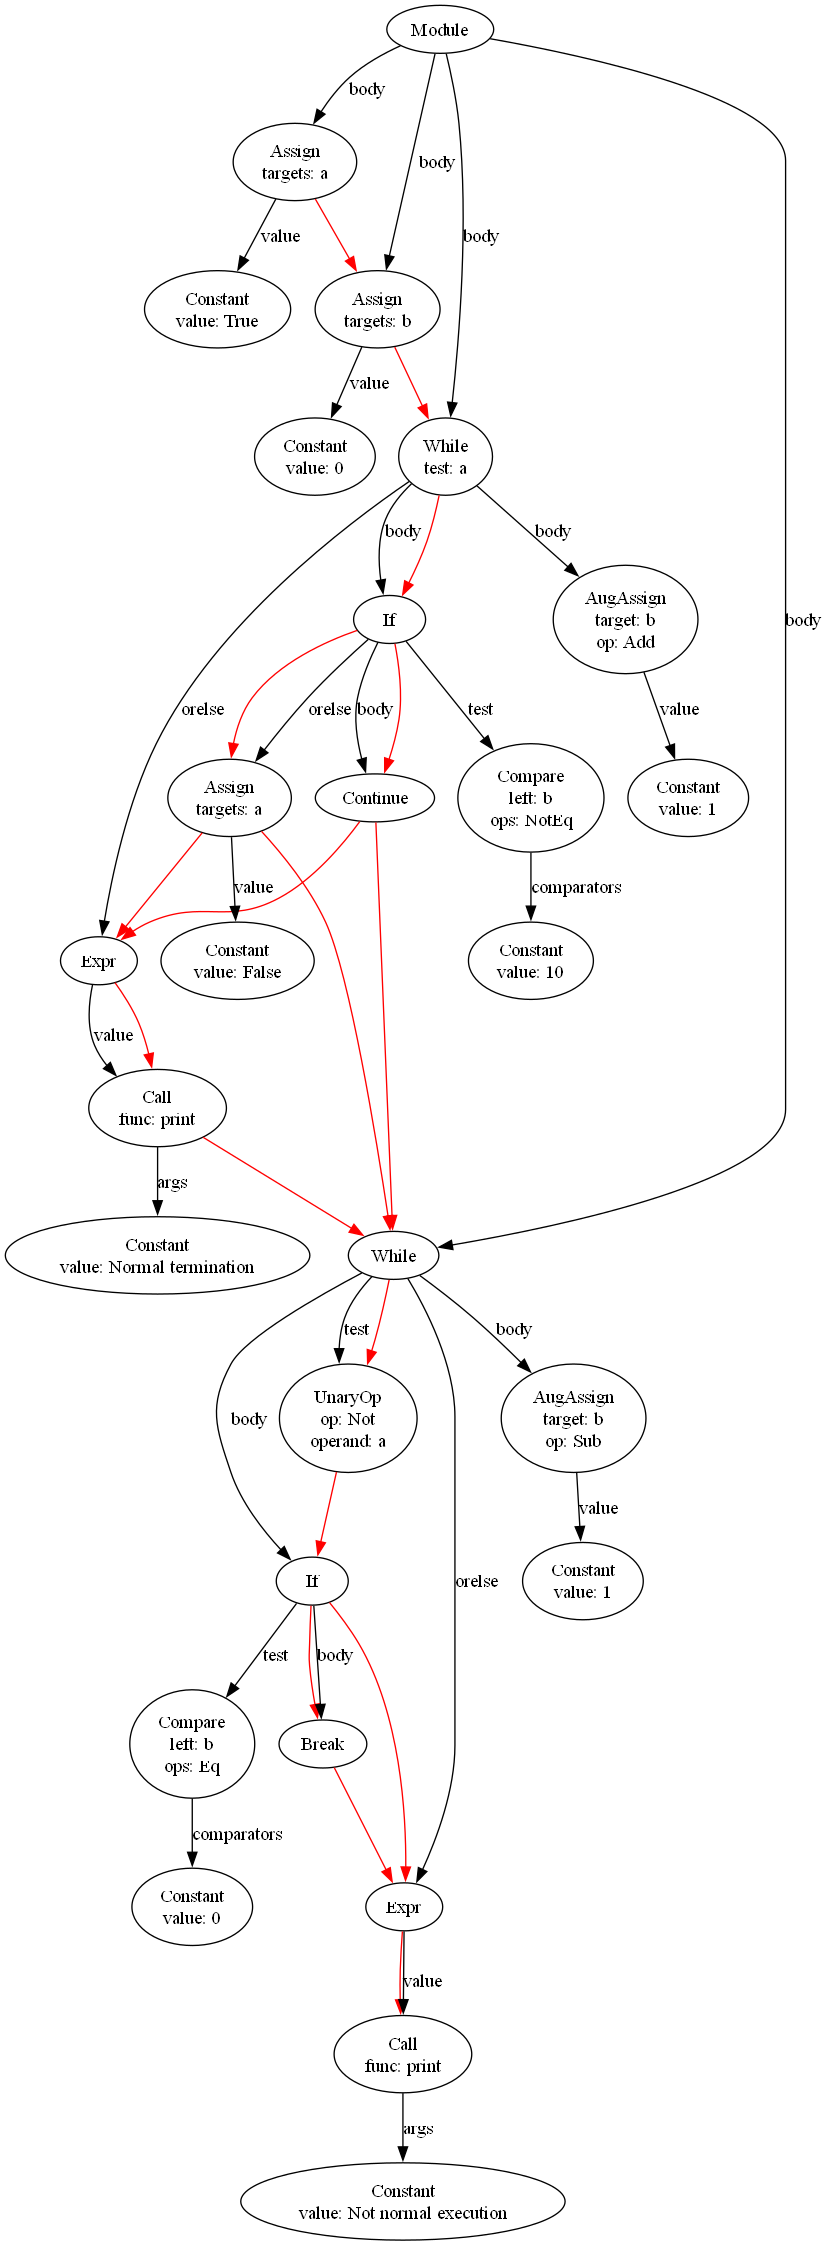
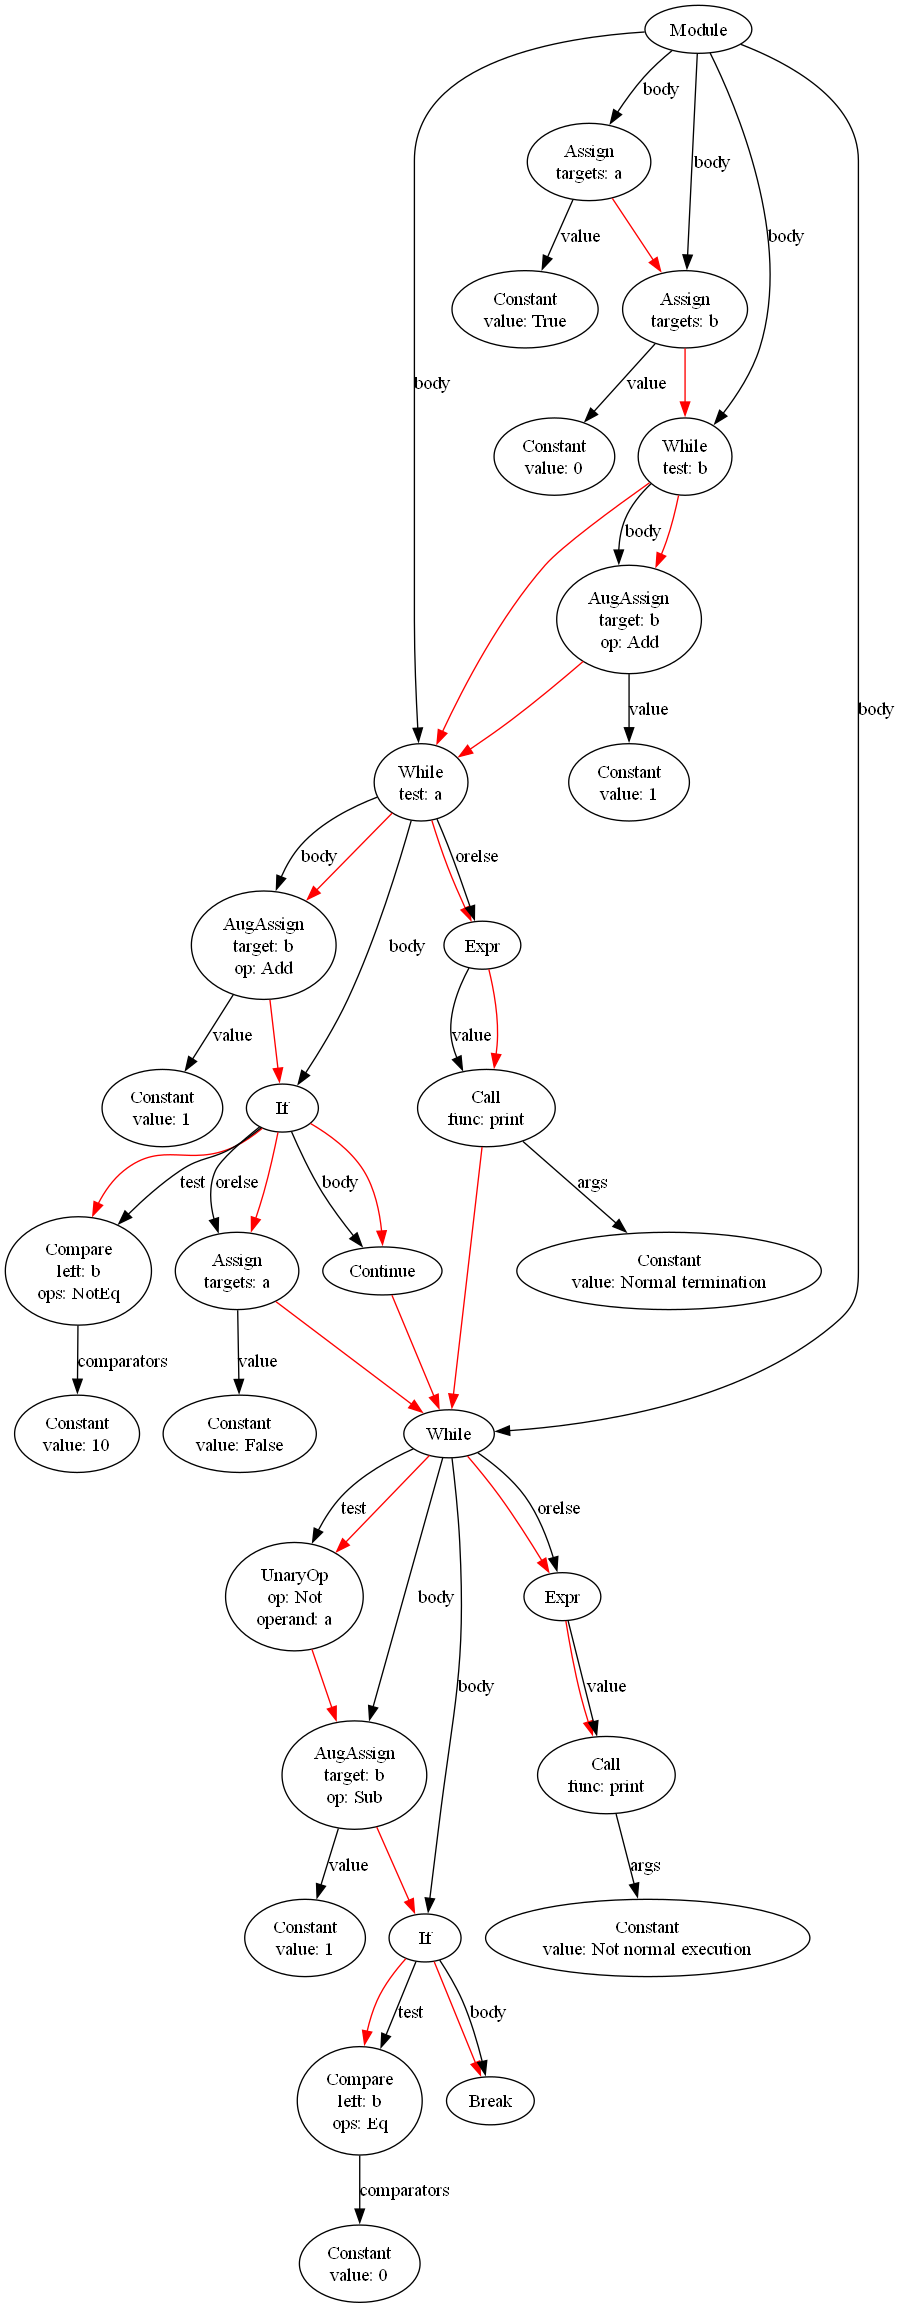
while parsing works

diff --git a/lab1/visual.py b/lab1/visual.py
@@ -15,8 +15,6 @@ files = {
     "while"
 }
 
-# files = {"try"}
-
 def add_node(dot, node: ast.AST, parent=None, edge_name="", parent_attrs_func=None):
     global stack_of_scopes
     current_scope = stack_of_scopes[-1]
@@ -39,7 +37,6 @@ def add_node(dot, node: ast.AST, parent=None, edge_name="", parent_attrs_func=No
         nonlocal node_attrs
         return node_attrs
 
-    print("IN " + node_name + " " + ast.unparse(node))
     match node_name:
         # Add node's info to their parent node
         case "Name":
@@ -60,13 +57,13 @@ def add_node(dot, node: ast.AST, parent=None, edge_name="", parent_attrs_func=No
             stack_of_scopes.append([node])
             node_attrs.append("name: " + str(node.name))
             node_attrs.append("returns: " + str(node.returns))
-        case "Assign" | "Call" | "Expr" | "Break" | "Pass" | "Continue" | "Raise" | "Return" | "Yield" | "If" | "Try" | "ExceptHandler" | "For" | "While" | \
-             "BinOp" | "UnaryOp" | "BoolOp" | "IfExp":
-            if ((node_name == "If" and parent_name != "If") or node_name == "Try") and len(current_scope) >= 1:
+        case "Assign" | "AugAssign" | "Call" | "Expr" | "Break" | "Pass" | "Continue" | "Raise" | "Return" | "Yield" | "If" | \
+              "Try" | "ExceptHandler" | "For" | "While" | "BinOp" | "UnaryOp" | "BoolOp" | "IfExp" | "Compare":
+            if ((node_name == "If" and parent_name != "If") or node_name == "While" or node_name == "Try") and len(current_scope) >= 1:
                 for elem in current_scope:
                     dot.edge(str(id(elem)), str(id(node)), color="red")
                 current_scope.clear()
-            if node_name == "If" or node_name == "ExceptHandler" or edge_name == "orelse":
+            if node_name == "If" or node_name == "ExceptHandler" or edge_name == "orelse" or node_name == "While":
                 stack_of_scopes.append(copy.copy(current_scope))
                 current_scope = stack_of_scopes[-1]
             elif node_name == "Try":
@@ -74,17 +71,11 @@ def add_node(dot, node: ast.AST, parent=None, edge_name="", parent_attrs_func=No
                 stack_of_scopes.append(copy.copy(current_scope))
                 stack_of_scopes.append(copy.copy(current_scope))
                 current_scope = stack_of_scopes[-1]
-            # elif node_name == "ExceptHandler":
-                # current_scope = stack_of_scopes[-2]
-            if (parent_name == "If" and edge_name == "orelse"):
-                # Remove connection with expression from previous if node or handlers edge
-                current_scope.pop()
+            if (parent_name == "If" or parent_name == "While") and edge_name == "orelse":
+                # Remove connection with expression from previous if node
+                current_scope.clear()
                 current_scope.append(parent)
-            # elif  parent_name == "Try" and (edge_name == "handlers" or edge_name == "orelse") and len(current_scope) > 1:
-            #     # Remove connection with previous handlers edge
-            #     current_scope.pop()
             if len(current_scope) >= 1:
-                # !!! сюда же try, except
                 for elem in current_scope:
                     dot.edge(str(id(elem)), str(id(node)), color="red")
                 current_scope.clear()
@@ -109,10 +100,10 @@ def add_node(dot, node: ast.AST, parent=None, edge_name="", parent_attrs_func=No
     if node_name == "FunctionDef":
         stack_of_scopes.pop()
     # Works or try.orelse too
-    elif node_name == "If" or node_name == "Try" or edge_name == "orelse":
+    elif node_name == "If" or node_name == "Try" or edge_name == "orelse" or node_name == "While":
         forward_list = stack_of_scopes.pop()
         # Add connection from if node to siblings if it has no orelse attr
-        if (node_name == "If") and edge_name != "orelse" and not elsebranch:
+        if (node_name == "If" or node_name == "While") and edge_name != "orelse" and not elsebranch:
                 forward_list.append(node)
         try:
             stack_of_scopes[-1].extend(forward_list)

diff --git a/lab1/while.py b/lab1/while.py
@@ -1,6 +1,9 @@
 a = True
 b = 0
 
+while b:
+    b += 1
+
 while a:
     b += 1
     if b != 10:
